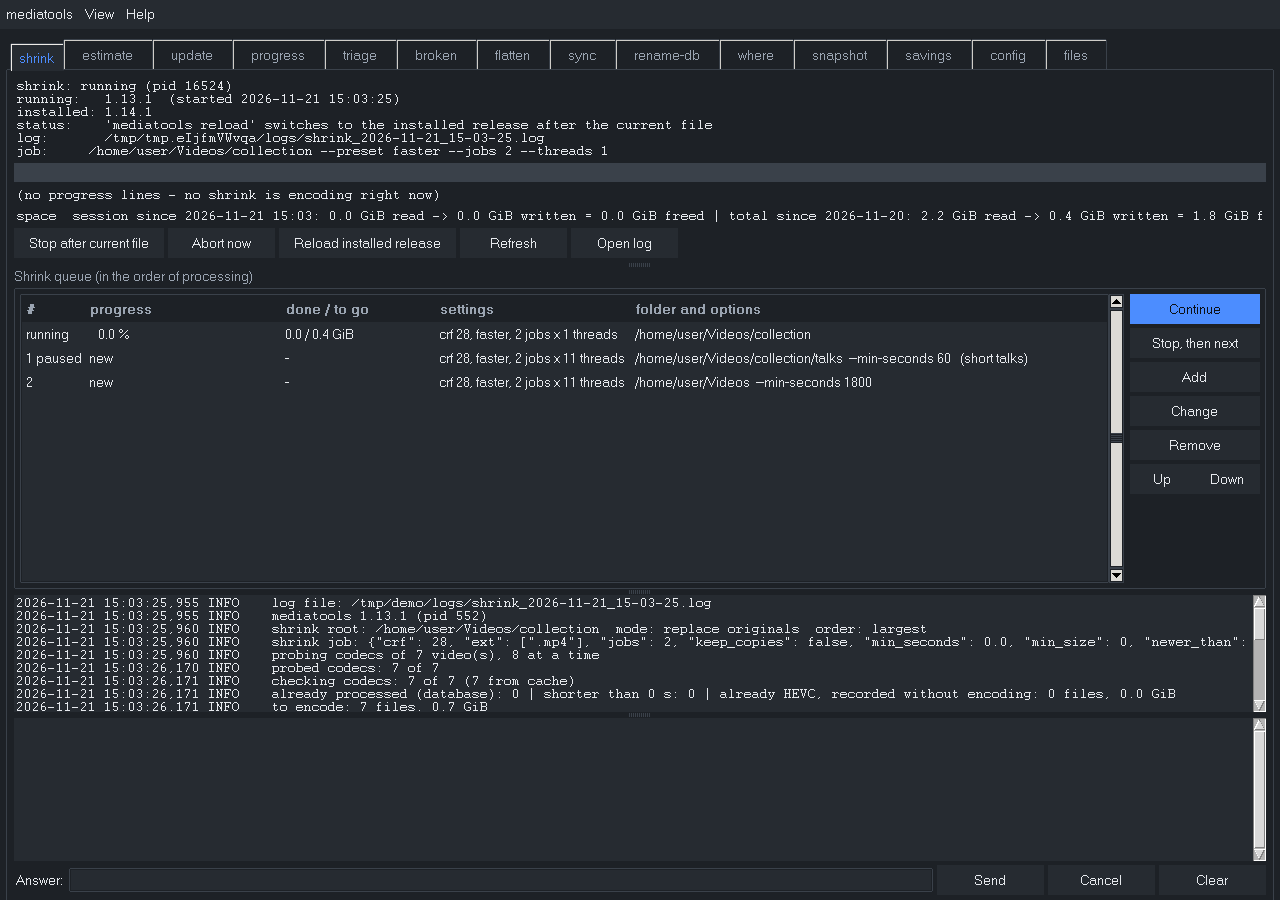
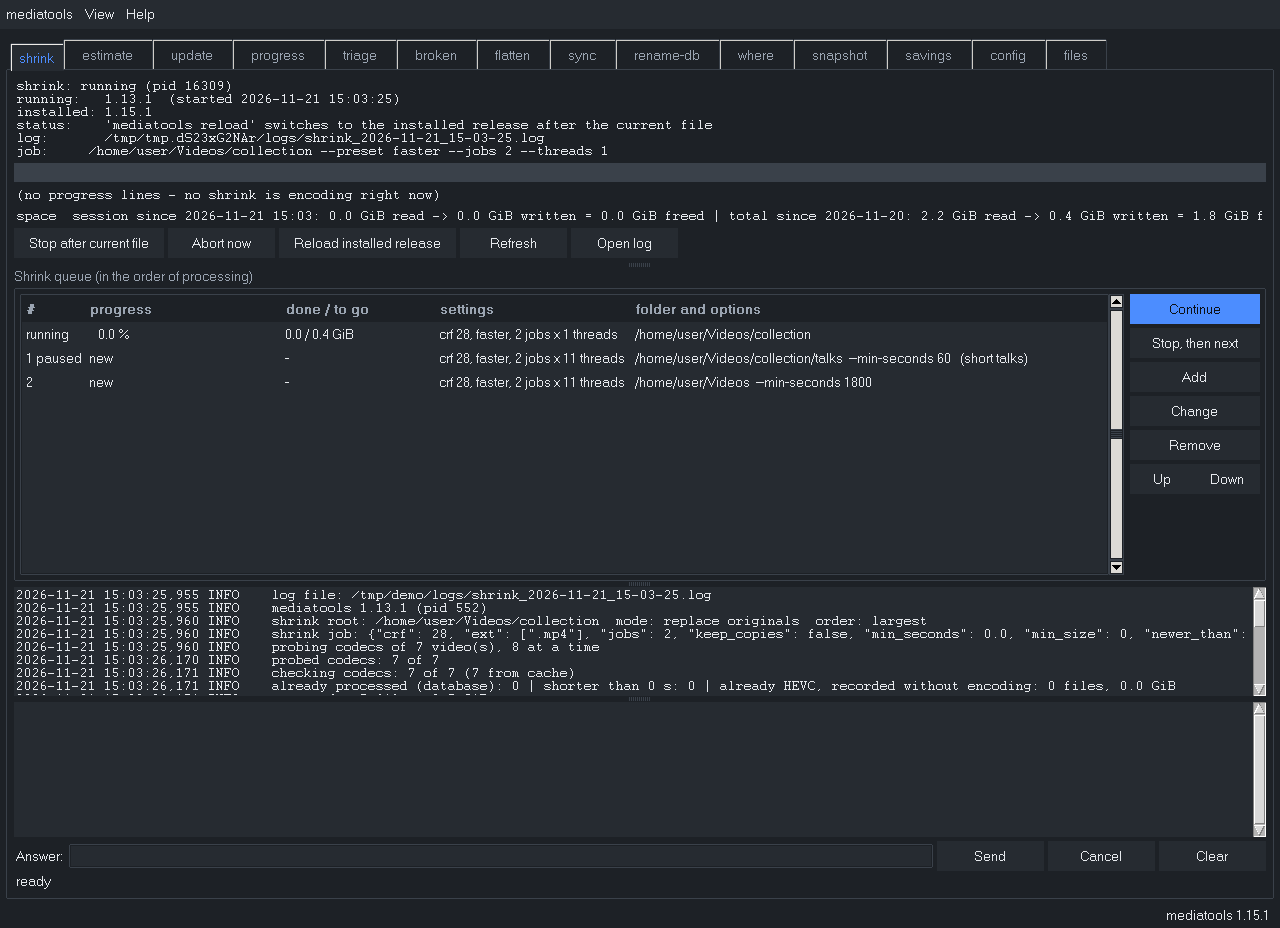
GUI: window title without version; version line below the tabs
Launcher, dock and window search of COSMIC list an open window by its
title next to the menu entry; "mediatools 1.14.1" looked like a second
application. The title is now "mediatools"; the running version stands
in a line on the right below the tabs and in Help > About. Screenshots
show the new line.

Claude-Session: https://claude.ai/code/session_01HJgZW4URRE766PKXdAzmnE

diff --git a/src/mediatools/gui/app.py b/src/mediatools/gui/app.py
@@ -97,7 +97,10 @@ class MediaToolsApp:
         self.tabs: dict[str, ttk.Frame] = {}
         self.appearance = Appearance(root, config or Config())
         self.restarter: Callable[[], None] = self._exec_gui
-        root.title(f"mediatools {VersionInfo().describe()}")
+        # no version in the title: launcher, dock and window search show the
+        # title next to the menu entry "mediatools"; the version is in the
+        # version line below the tabs (and in Help > About)
+        root.title("mediatools")
         self.icon = tk.PhotoImage(master=root, file=os.path.join(DesktopEntry.ICON_DIR,
                                                                  "mediatools-64.png"))
         root.iconphoto(True, self.icon)
@@ -112,6 +115,11 @@ class MediaToolsApp:
         self.updates = UpdateBar(root, self.restart)
         self.notebook = ttk.Notebook(root)
         self.notebook.pack(fill="both", expand=True, padx=6, pady=6)
+        # version line below the tabs, on the right (the title stays "mediatools");
+        # packed after the tabs, it still gets its height: pack hands out the
+        # requested sizes first and only the rest to the expanding tabs
+        ttk.Label(root, text=f"mediatools {VersionInfo().describe()}",
+                  padding=(8, 0, 8, 4)).pack(anchor="e")
         for spec in catalog.commands():
             if spec.name in self.PANEL_COMMANDS:
                 continue

diff --git a/tests/test_gui_tk.py b/tests/test_gui_tk.py
@@ -3,6 +3,7 @@ import os
 import sys
 import time
 import tkinter as tk
+from tkinter import ttk
 from pathlib import Path
 from typing import Callable, Iterator
 
@@ -11,6 +12,7 @@ import pytest
 from conftest import VIRTUAL_DISPLAY_HINT
 
 from test_gui_logic import write_run
+from mediatools import __version__
 from mediatools.cli import Cli
 from mediatools.core.config import Config
 from mediatools.gui.app import MediaToolsApp
@@ -377,6 +379,10 @@ def test_app_tabs_undo_about_and_close(root: tk.Tk, tmp_path: Path,
     assert app.forms["flatten"].values()["undo"] == "/data/plans/p.json"
     assert app.notebook.tab(app.notebook.select(), "text") == "flatten"
     assert "logs and state:" in app.about_text()
+    assert root.title() == "mediatools"                    # no version for launcher and dock
+    assert any(isinstance(child, ttk.Label)
+               and str(child.cget("text")).startswith(f"mediatools {__version__}")
+               for child in root.winfo_children())
     app.about()
     app.install_desktop()
     assert shown[-1].startswith("written: ")

diff --git a/docs/handbook.md b/docs/handbook.md
@@ -1933,6 +1933,11 @@ gdbus call --session --dest org.freedesktop.portal.Desktop \
 theme: flat surfaces, one accent colour for the selected tab, progress
 bars and the *Run* and *Continue* buttons; no extra package is needed.
 
+The window title is just "mediatools"; the running version stands in a
+line on the right below the tabs (and in *Help > About*). Launcher, dock and
+window search show the title of an open window next to the menu entry
+"mediatools", so a version there would look like a second application.
+
 Every minute the window asks the installed release for its version (in
 the background). After `mediatools update` a bar above the tabs says which
 release is installed and offers *Restart now*: the window closes (asking

diff --git a/docs/api.md b/docs/api.md
@@ -2497,7 +2497,7 @@ Attributes:
 **`__init__`**
 
 ~~~text
-__init__(self, control: RunControl, installed: str = '1.15.0') -> None
+__init__(self, control: RunControl, installed: str = '1.15.1') -> None
 
 Remember the job and the installed release.
 
@@ -2776,7 +2776,7 @@ Attributes:
 **`__init__`**
 
 ~~~text
-__init__(self, package_dir: str | None = None, version: str = '1.15.0')
+__init__(self, package_dir: str | None = None, version: str = '1.15.1')
 
 Locate the imported package.
 

diff --git a/CHANGELOG.md b/CHANGELOG.md
@@ -5,6 +5,12 @@ All notable changes are documented here. Versions follow
 
 ## [Unreleased]
 
+### Changed
+- The GUI window title is "mediatools" without the version; the running
+  version stands in a line on the right below the tabs. Launcher, dock and
+  window search showed the title "mediatools 1.x.y" next to the menu entry
+  "mediatools" like a second application.
+
 ## [1.15.1] - 2026-11-25
 
 ### Added
